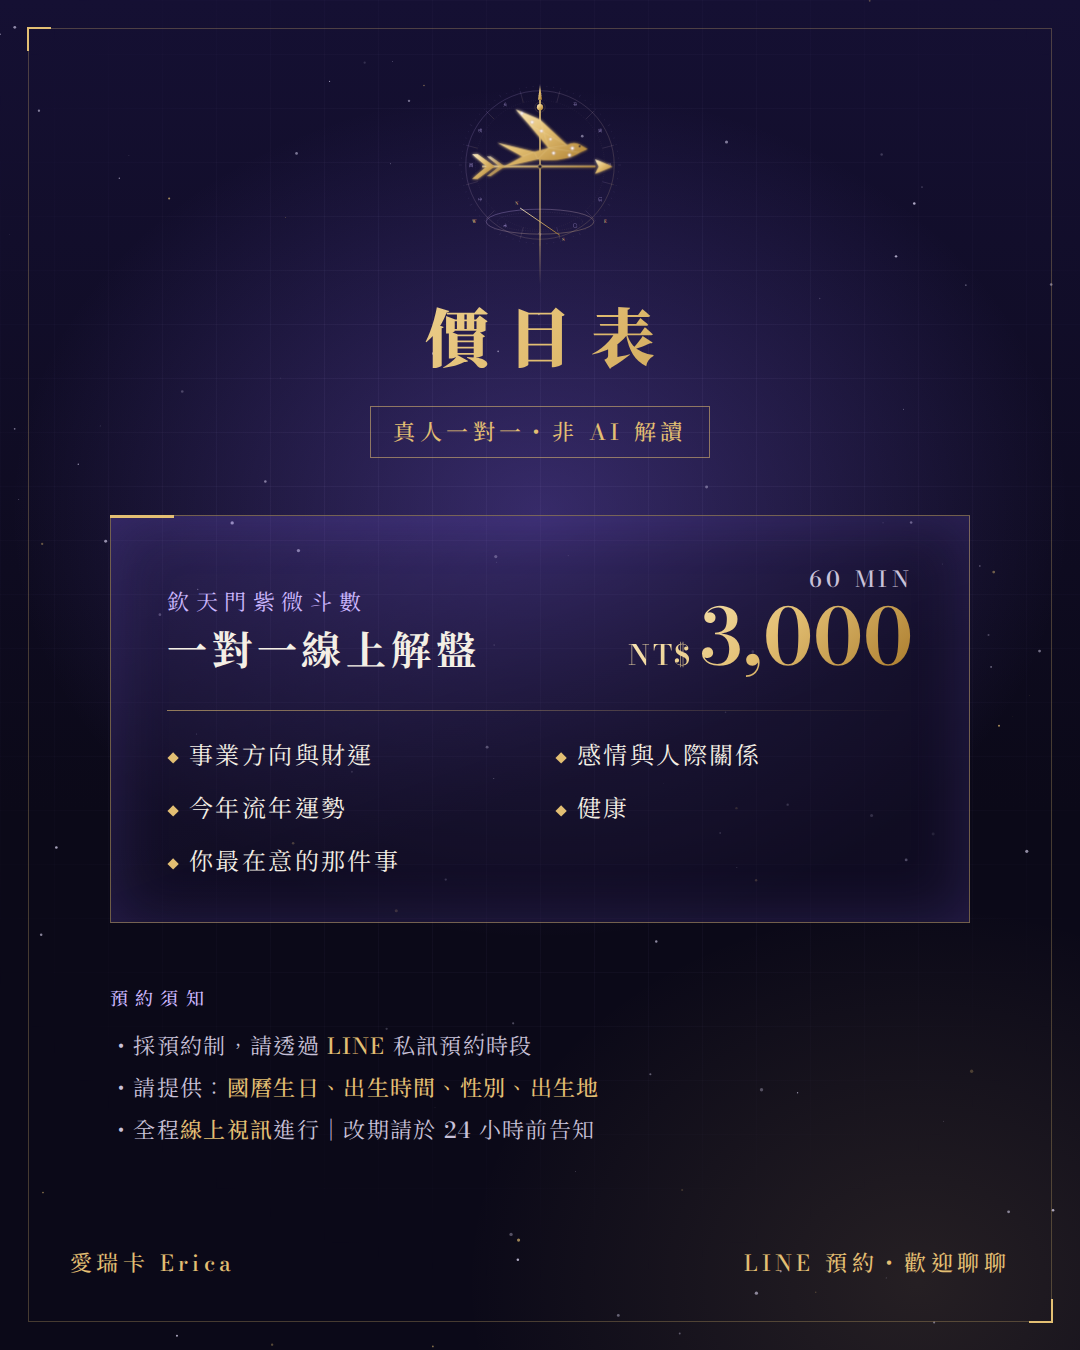
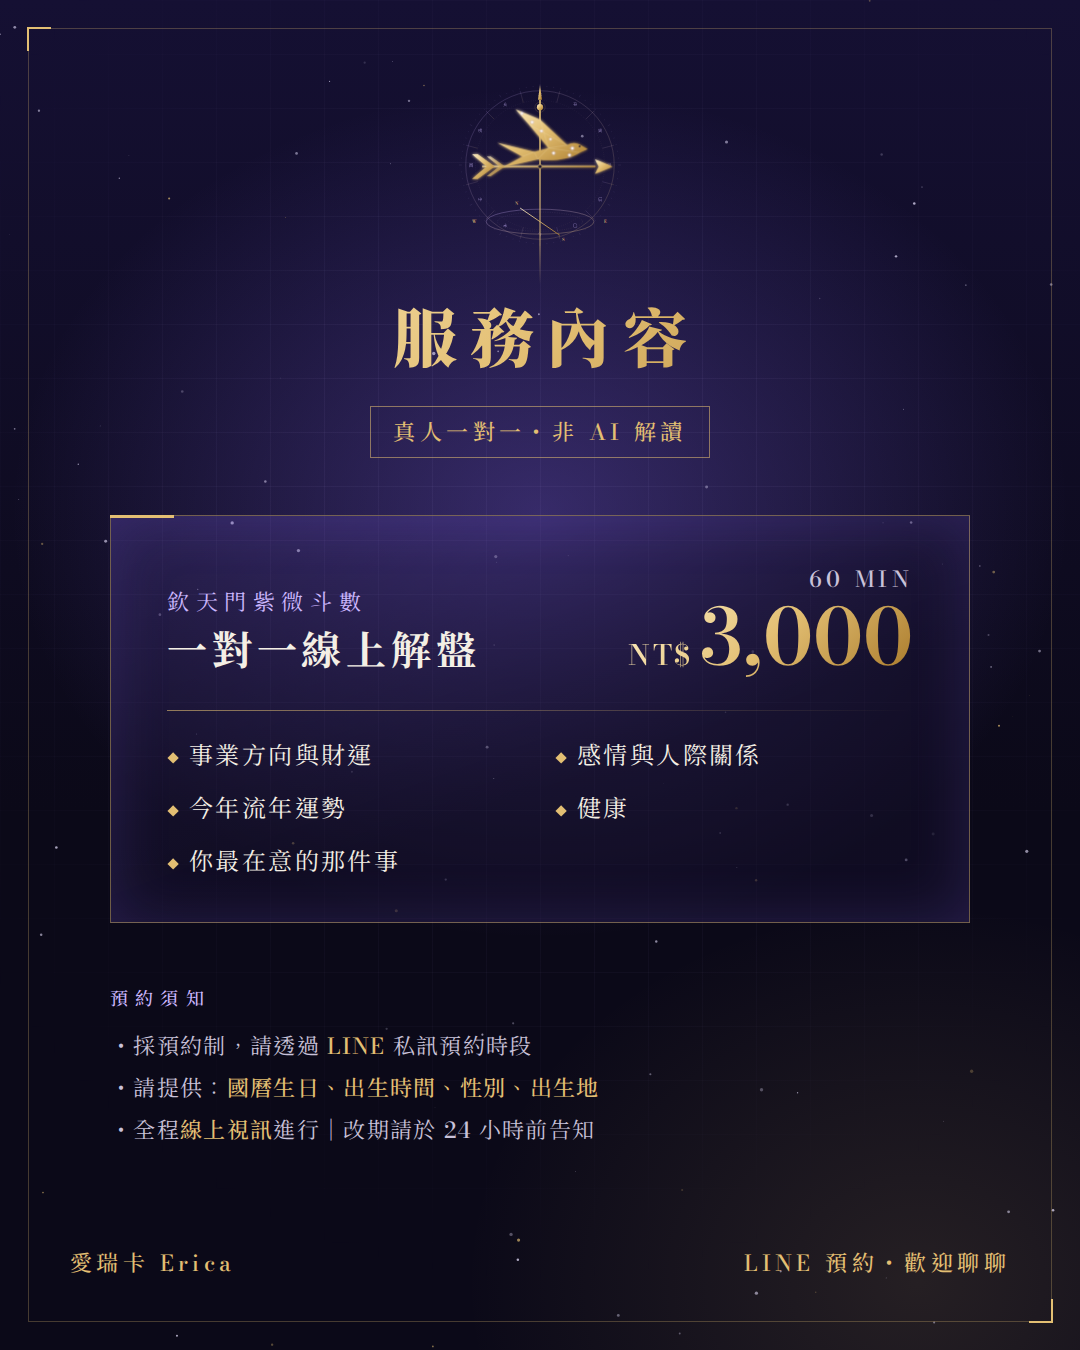
Price list: rename heading to 服務內容
Claude-Session: https://claude.ai/code/session_01WeWVZ5r8UiL42UXgK61AKB

Changed region(s): [[0.3667, 0.2178, 0.6417, 0.28]]

diff --git a/line-oa/design/price.html b/line-oa/design/price.html
@@ -1,16 +1,16 @@
 <!doctype html>
-<html lang="zh-Hant"><head><meta charset="utf-8"><title>價目表</title>
+<html lang="zh-Hant"><head><meta charset="utf-8"><title>服務內容</title>
 <link rel="stylesheet" href="common.css">
 <link href="https://fonts.googleapis.com/css2?family=Chiron+Sung+HK:wght@300;400;500;700;900&family=Bodoni+Moda:wght@500;600;700&display=swap" rel="stylesheet">
 <style>
 /* 字體沿用主宣傳圖：中文昭源宋體，英文 Bodoni Moda
-   字級：標題 64 ／ 價格 78 ／ 服務名稱 40 ／ 項目 24 ／ 說明・底部 22 ／ 小標 18 */
+   字級：標題「服務內容」64 ／ 價格 78 ／ 服務名稱 40 ／ 項目 24 ／ 說明・底部 22 ／ 小標 18 */
 .canvas{width:1080px;height:1350px;font-family:'Bodoni Moda','Chiron Sung HK',serif}
 .canvas .vane-branch{font-family:'Chiron Sung HK',serif}
 .canvas .compass-labels text{font-family:'Bodoni Moda',serif;font-weight:600;font-size:15px}
 .head{position:absolute;top:80px;left:0;right:0;text-align:center}
 .icon{width:170px;height:204px;margin:0 auto 6px}
-.head h1{font-weight:900;font-size:64px;letter-spacing:.3em;padding-left:.3em}
+.head h1{font-weight:900;font-size:64px;letter-spacing:.2em;padding-left:.2em}
 .badge{display:inline-block;margin-top:18px;padding:8px 22px;border:1px solid rgba(227,191,115,.55);
   font-size:22px;font-weight:500;letter-spacing:.2em;color:var(--gold)}
 .card{position:absolute;left:110px;right:110px;top:515px;padding:46px 56px 42px;
@@ -42,7 +42,7 @@ li.full{grid-column:1/-1}
   <div class="frame"></div>
   <div class="head">
     <div class="icon" data-vane="classic"></div>
-    <h1 class="gold-text">價目表</h1>
+    <h1 class="gold-text">服務內容</h1>
     <div class="badge">真人一對一・非 AI 解讀</div>
   </div>
   <div class="card">

diff --git a/line-oa/README.md b/line-oa/README.md
@@ -38,7 +38,7 @@
 
 ---
 
-## 二、價目表
+## 二、服務內容（價目）
 
 **欽天門紫微斗數｜一對一線上解盤　60 分鐘　NT$3,000**
 （真人一對一・非 AI 解讀）
